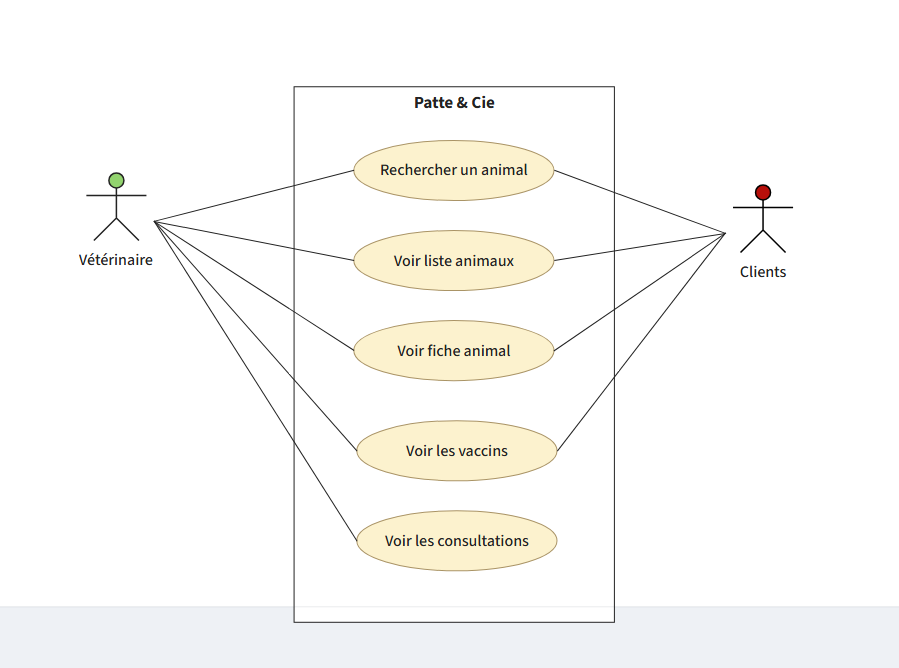
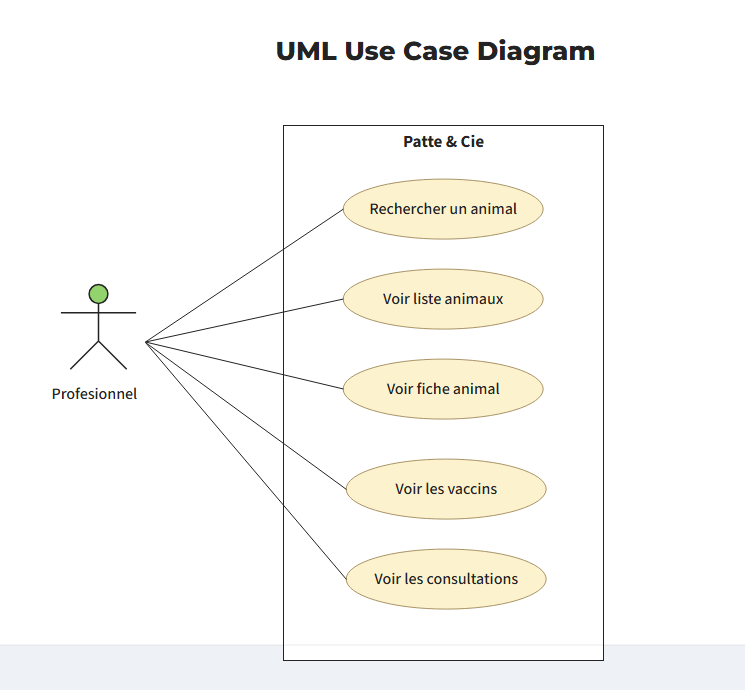
docs: update file

diff --git a/README.md b/README.md
@@ -23,25 +23,25 @@ Back end : chargées via un/des fichier.s JSON
 
 US01 — Voir liste animaux
 
-En tant que Clients ,
+En tant que Propriétaire ,
 je veux voir la liste des animaux,
 afin de trouver rapidement le bon dossier.
 
 US02 — Rechercher un animal
 
-En tant que Clients ,
+En tant que Propriétaire ,
 je veux rechercher un animal par nom,
 afin de accéder plus vite à sa fiche de santé.
 
 US03 — Voir fiche animal
 
-En tant que Clients,
+En tant que Propriétaire,
 je veux afficher la fiche détaillée d’un animal,
 afin de consulter ses informations médicales.
 
 US04 — Voir les vaccins
 
-En tant que vétérinaire,
+En tant que Propriétaire,
 je veux voir les vaccins déjà faits et les rappels,
 afin de éviter les doublons et planifier les rappels.
 
@@ -107,7 +107,7 @@ Besoin :
 
 → Un outil simple qui affiche toutes les infos médicales d’un animal en un clic.
 
- Persona Client
+ Persona Propriétaire
 
 Nom : Julie Moreau
 Âge : 34 ans
@@ -127,7 +127,7 @@ Besoin :
 
 ## Use case : 
 
-<img width="899" height="668" alt="Use Case vétérinaire Patte   Ci" src="https://github.com/user-attachments/assets/0381ff13-c02c-4c81-b7ee-dfe26c707fc1" />
+<img width="899" height="668" alt="Use Case vétérinaire Patte   Ci" src="Use Case vétérinaire Patte & Ci.png" />
 
 https://app.moqups.com/j9DH05U3z1IIa9RcVKTOb3yVoQdId520/edit/page/a9ea10fe3
 ****
